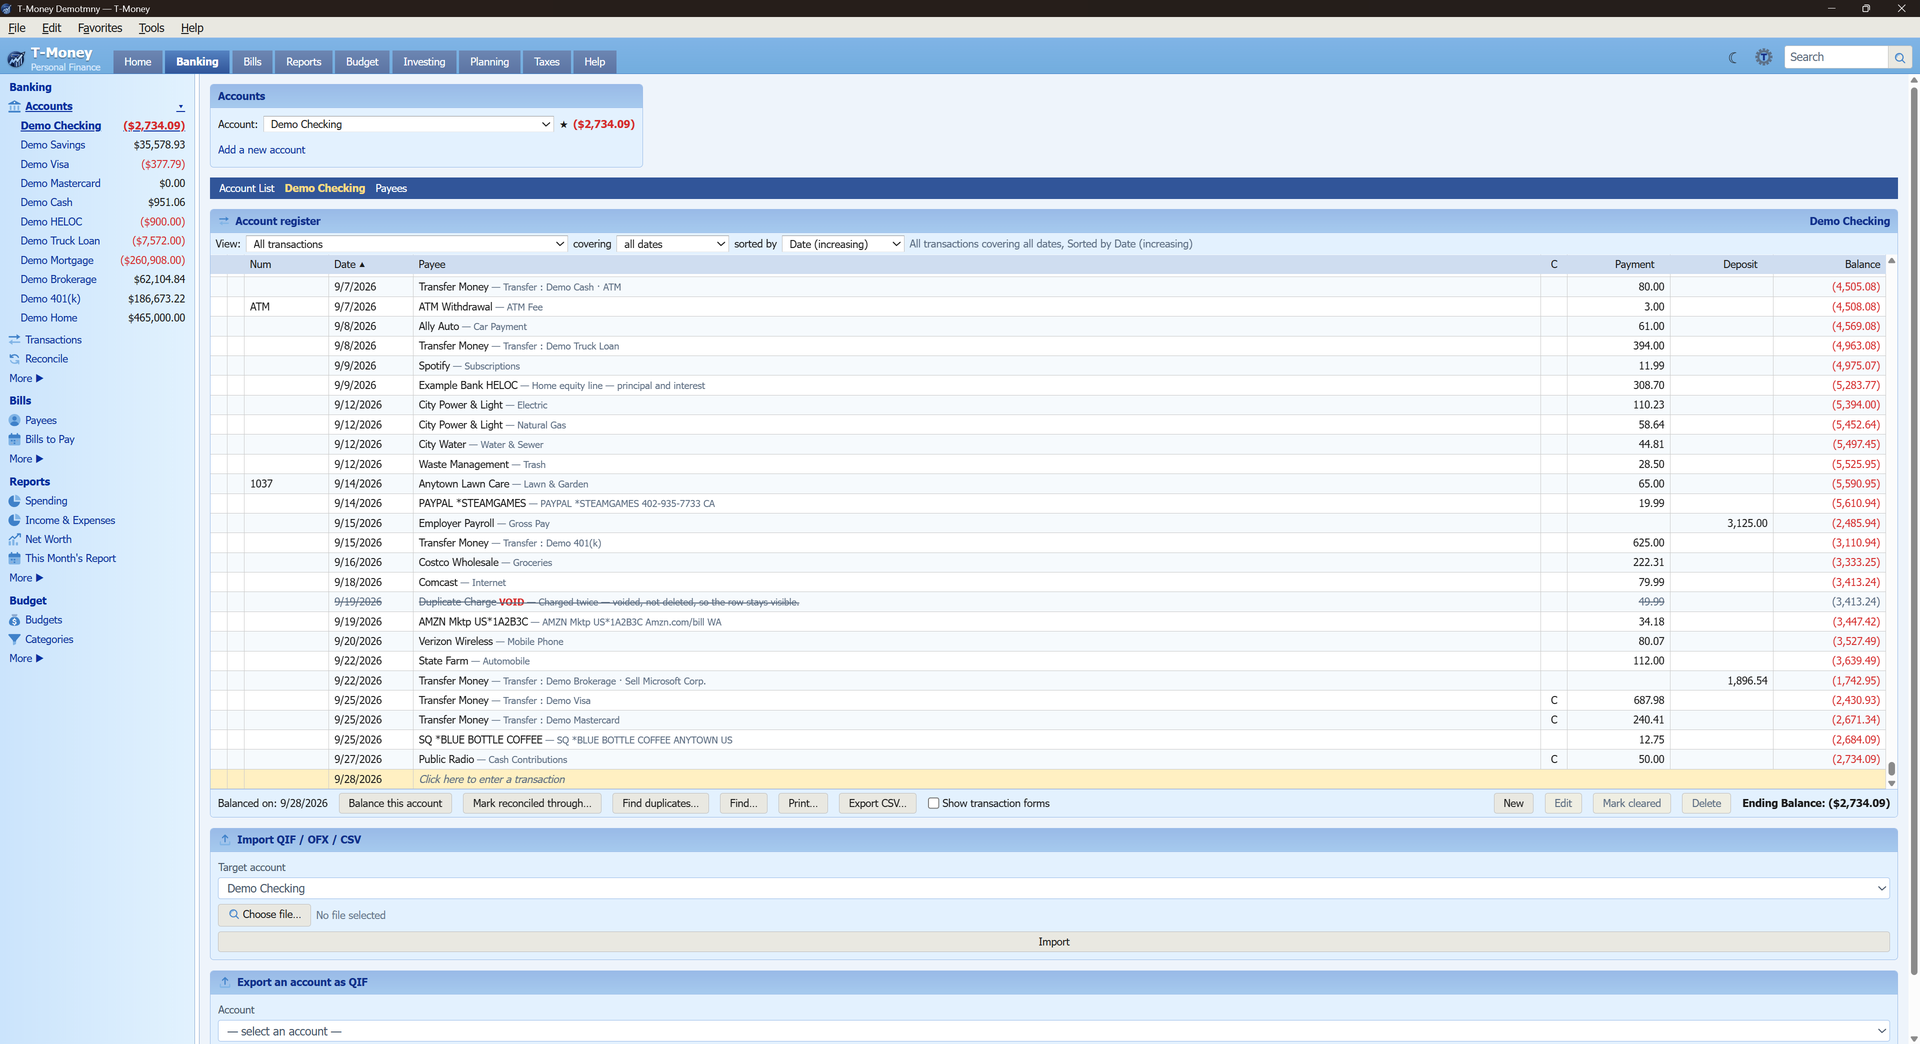
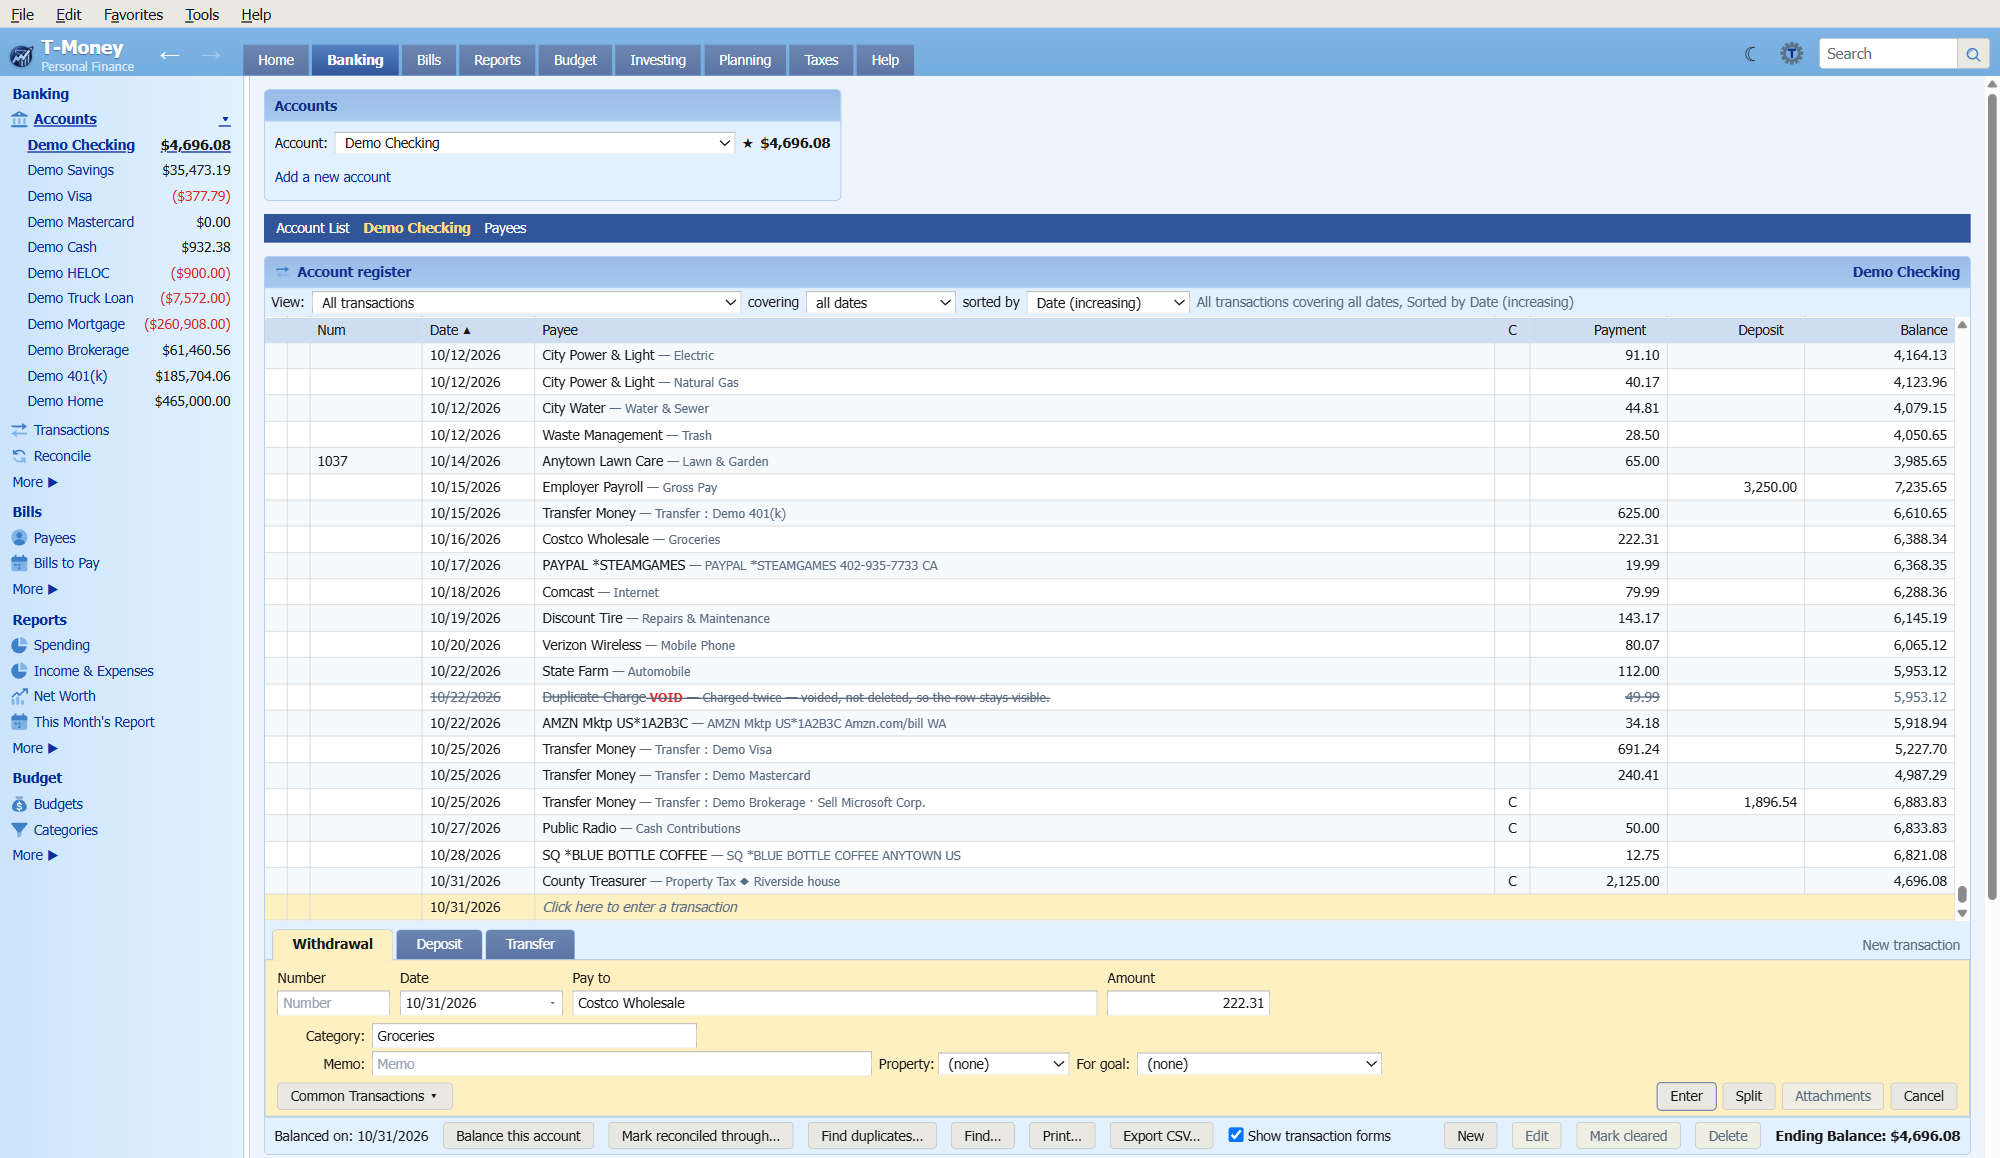
README: register screenshot with the tabbed transaction form

diff --git a/README.md b/README.md
@@ -19,7 +19,7 @@ machine. If you want your bank's transactions fetched for you, [bank sync](#bank
 goes through a separate service you sign up for.
 
 <p align="center">
-  <img src="docs/screenshots/register.png" alt="An account register: dated transactions with payees, categories, payments, deposits and a running balance" width="900">
+  <img src="docs/screenshots/register.png" alt="An account register: dated transactions with payees, categories, payments, deposits and a running balance, and the Withdrawal, Deposit and Transfer form under it" width="900">
 </p>
 
 ## Screenshots
